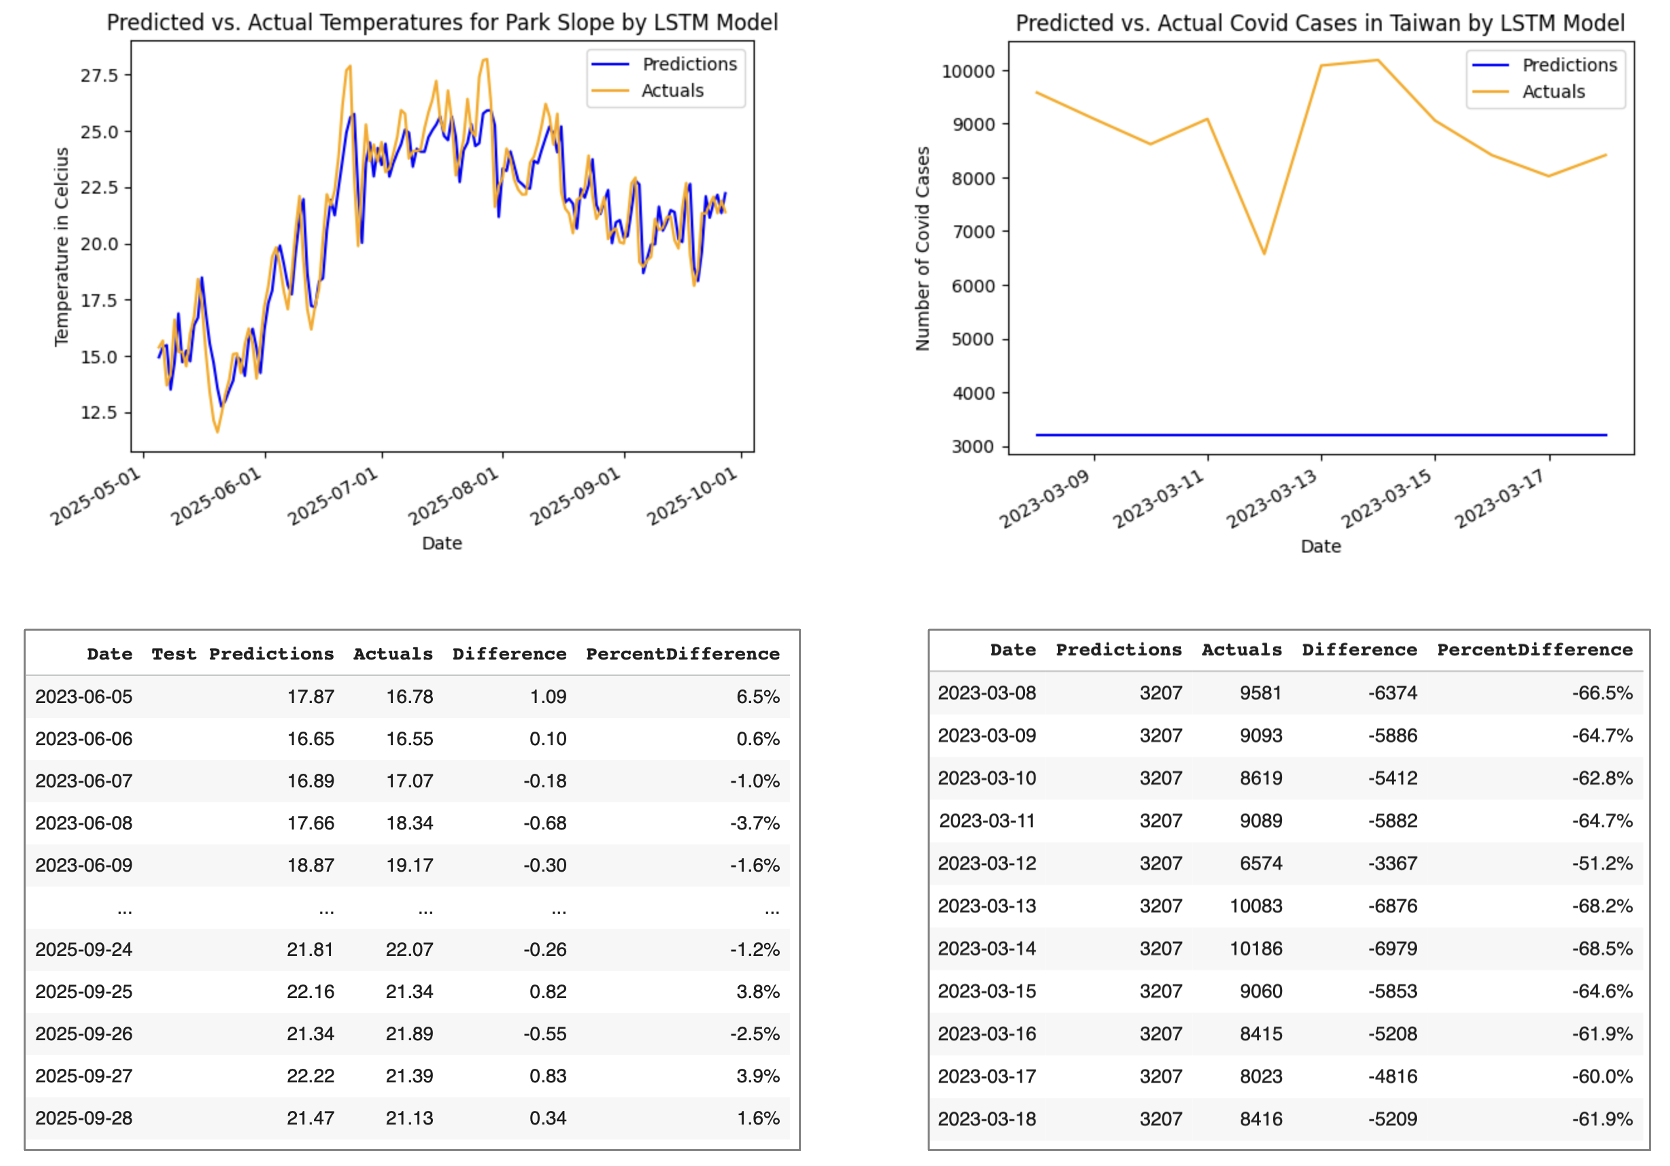
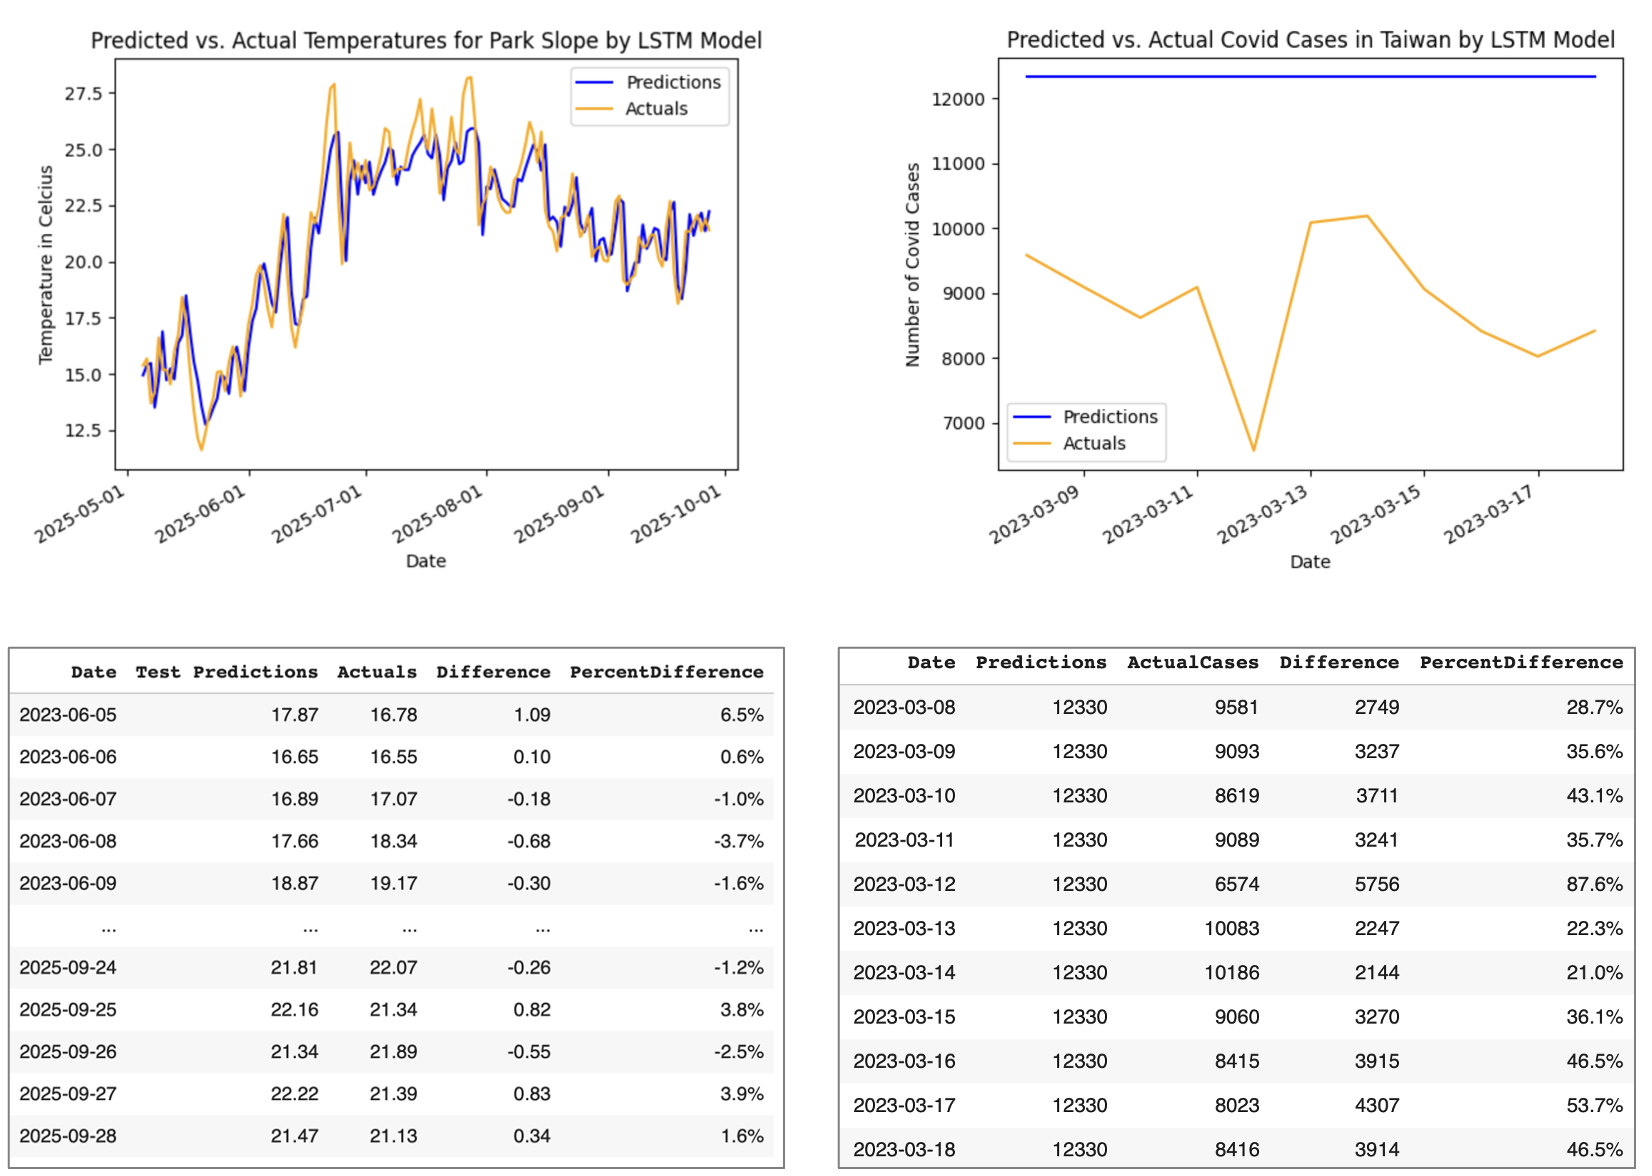
Replace Image

diff --git a/index.md b/index.md
@@ -81,6 +81,15 @@ Given the uniqueness of Taiwan's epidemic waves of Covid-19, how well can machin
 ## Advantages of LSTM models
 
 
+
+# LSTM model setup
+Predict Covid cases using Covid cases from the past 5 days
+The input-output matrix would look like this: <br>
+[Mon, Tue, Wed, Thu, Fri][Sat] <br>
+[Tue, Wed, Thu, Fri, Sat][Sun] <br>
+[Wed, Thu, Fri, Sat, Sun][Mon] <br>
+
+
 ## LSTM modeling results comparison
 Due to the magnitude of Covid cases, the daily totals were "normalized" to range between 0 and 10 by dividing by 10,000 before training. The predicted results were then multiplied by 10,000 to get back to the original unit (number of cases).<be>
 
@@ -93,9 +102,10 @@ Below is a comparison table of the two datasets on their respective sample size,
 |:-------------------|:---------------|:-------------|
 | No. of Samples     | 5,752          | 336          |
 | Value Range        | -10.77 ~ 34.25 | 0.14 ~ 9.41  |
-| Learning Rate      | 0.01           | 0.01         |
+| Learning Rate      | 0.01           | 1.0          |
 | Epochs             | 200            | 200          |
-| Min Error Magnitude| 0.2%           | 51%          |
+| Min Error Magnitude| 0.4%           | 14%          |
+| Max Error Magnitude| 21%            | 88%          |
 
 <br>
 <br>
